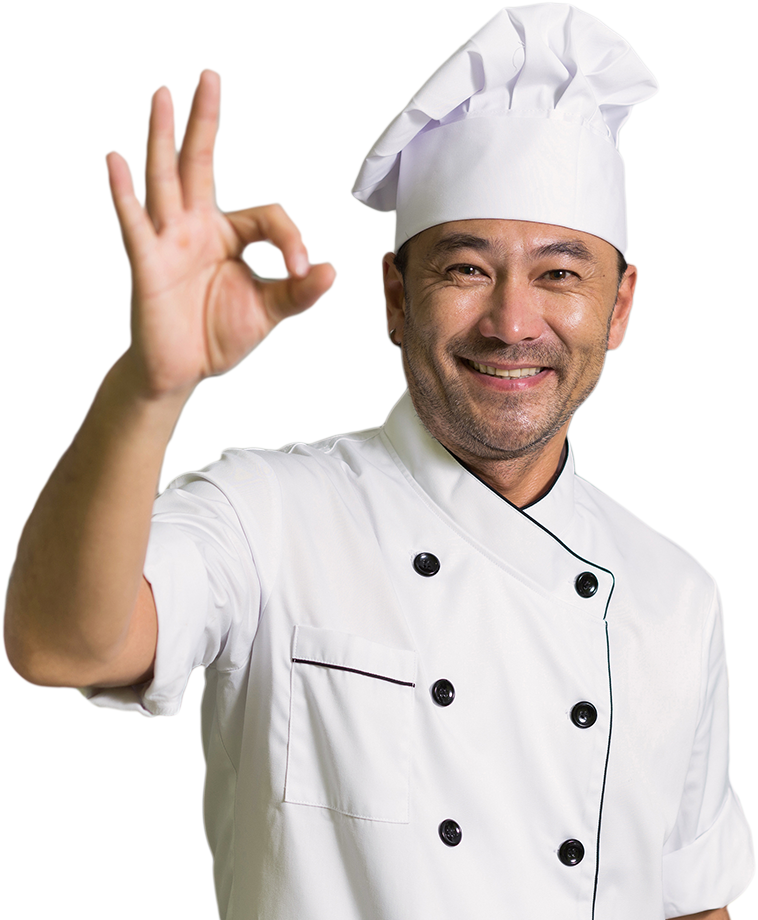
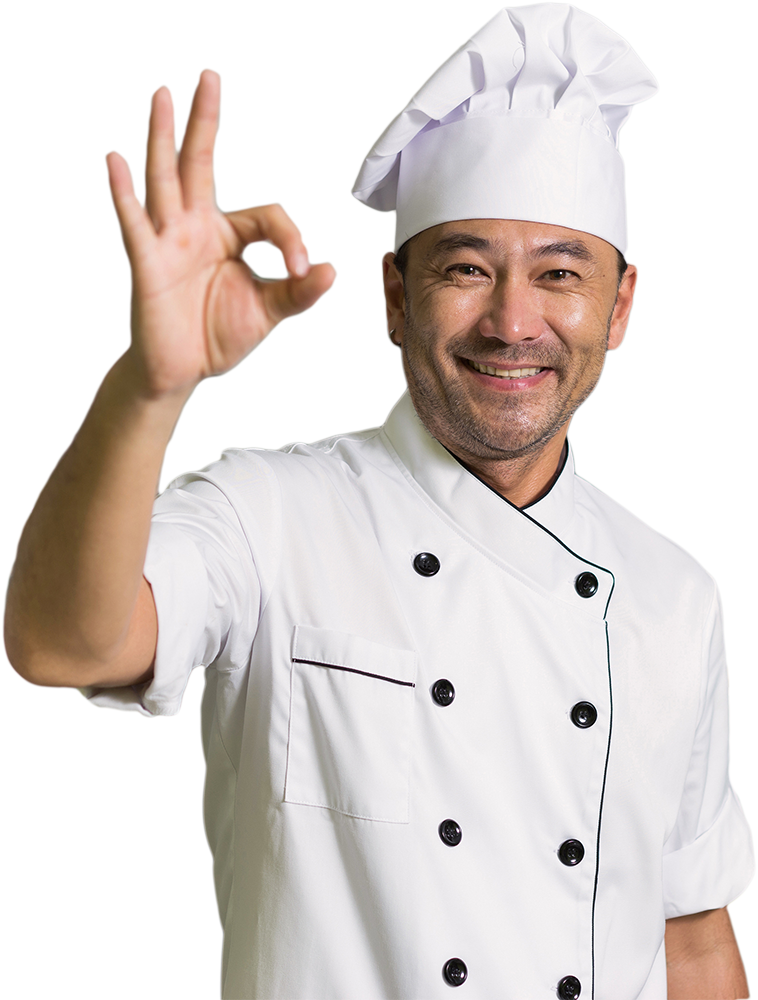
Fölösleges képek törlése

diff --git a/rolunk.html b/rolunk.html
@@ -1,76 +1,79 @@
 <!DOCTYPE html>
 <html lang="hu-hu">
-    <head>
-        <title>WebProgHazi</title>
-        <link rel="stylesheet" href="style.css">
-        <meta charset="UTF-8">
-        <meta name="viewport" content="width=device-width, initial-scale=1.0">
-        <script src="https://cdn.jsdelivr.net/npm/chart.js@4.4.0"></script>
-        <script src="script.js"></script>
-    </head>
-    <body>
-        <header>
-            <h1 id="cim">Web-programozás-1 Előadás Házi feladat</h1>
-            
-        </header>
 
-        <nav>
-            <div class="menu">
-                <li class="menu_pont selected_menu"><a href="index.html">Home</a></li>
-                <li class="menu_pont"><a href="base.html">Asztal foglalás</a></li>
-                <li class="menu_pont"><a href="base.html">Étlap</a></li>
-                <li class="menu_pont"><a href="base.html">Elérhetőségek</a></li>
-                <li class="menu_pont"><a href="rolunk.html">Rólunk</a></li>
-            </div>
-        </nav>
-        <div class="rolunkcontent">
-            <div class="jobboldal">
-                <canvas id="myChart" width="900" height="900"></canvas>
-            </div>
-            <div class="baloldal">
-                <div class="sor">
-                    <div class="kartya">
-                        <img class="szakacs1kep" src="images/foszakacs.png" alt="">
-                        <div class="munkasleiras">  
-                            <h3>Fá Zoltán</h3>
-                            <p>Főszakács</p>
-                            <p>10 éve dolgozik nálunk</p>
-                        </div>
-                    </div>
-                    <div class="kartya">
-                        <img class="szakacs1kep" src="images/szakacs1.png" alt="">
-                        <div class="munkasleiras">  
-                            <h3>Dil Emma</h3>
-                            <p>Szakács</p>
-                            <p>8 éve dolgozik nálunk</p>
-                        </div>
+<head>
+    <title>WebProgHazi</title>
+    <link rel="stylesheet" href="style.css">
+    <meta charset="UTF-8">
+    <meta name="viewport" content="width=device-width, initial-scale=1.0">
+    <script src="https://cdn.jsdelivr.net/npm/chart.js@4.4.0"></script>
+    <script src="script.js"></script>
+</head>
+
+<body>
+    <header>
+        <h1 id="cim">Web-programozás-1 Előadás Házi feladat</h1>
+
+    </header>
+
+    <nav>
+        <div class="menu">
+            <li class="menu_pont selected_menu"><a href="index.html">Home</a></li>
+            <li class="menu_pont"><a href="base.html">Asztal foglalás</a></li>
+            <li class="menu_pont"><a href="base.html">Étlap</a></li>
+            <li class="menu_pont"><a href="base.html">Elérhetőségek</a></li>
+            <li class="menu_pont"><a href="rolunk.html">Rólunk</a></li>
+        </div>
+    </nav>
+    <div class="rolunkcontent">
+        <div class="jobboldal">
+            <canvas id="myChart" width="900" height="900"></canvas>
+        </div>
+        <div class="baloldal">
+            <div class="sor">
+                <div class="kartya">
+                    <img class="szakacs1kep" src="images/foszakacs.png" alt="">
+                    <div class="munkasleiras">
+                        <h3>Fá Zoltán</h3>
+                        <p>Főszakács</p>
+                        <p>10 éve dolgozik nálunk</p>
                     </div>
                 </div>
-                <div class="sor">
-                    <div class="kartya">
-                        <img class="szakacs2kep" src="images/szakacs2.png" alt="">
-                        <div class="munkasleiras">  
-                            <h3>Elektrom Ágnes</h3>
-                            <p>Szakács</p>
-                            <p>7 éve dolgozik nálunk</p>
-                        </div>
+                <div class="kartya">
+                    <img class="szakacs1kep" src="images/szakacs1.png" alt="">
+                    <div class="munkasleiras">
+                        <h3>Dil Emma</h3>
+                        <p>Szakács</p>
+                        <p>8 éve dolgozik nálunk</p>
                     </div>
-                    <div class="kartya">
-                        <img class="sefkep" src="images/szakacs3uj.png" alt="">
-                        <div class="munkasleiras">
-                            <h3>Vicc Elek</h3>
-                            <p>Szakács</p>
-                            <p>5 éve dolgozik nálunk</p>
-                        </div>
+                </div>
+            </div>
+            <div class="sor">
+                <div class="kartya">
+                    <img class="szakacs2kep" src="images/szakacs2.png" alt="">
+                    <div class="munkasleiras">
+                        <h3>Elektrom Ágnes</h3>
+                        <p>Szakács</p>
+                        <p>7 éve dolgozik nálunk</p>
+                    </div>
+                </div>
+                <div class="kartya">
+                    <img class="sefkep" src="images/szakacs3.png" alt="">
+                    <div class="munkasleiras">
+                        <h3>Vicc Elek</h3>
+                        <p>Szakács</p>
+                        <p>5 éve dolgozik nálunk</p>
                     </div>
                 </div>
             </div>
         </div>
-        <aside>
-            
-        </aside>
-        <footer>
-            <p id="mi">Krecsmarik Zalán: B1XTCZ & Kordics Kristóf: ZE27GW</p>
-        </footer>
-    </body>
+    </div>
+    <aside>
+
+    </aside>
+    <footer>
+        <p id="mi">Krecsmarik Zalán: B1XTCZ & Kordics Kristóf: ZE27GW</p>
+    </footer>
+</body>
+
 </html>
